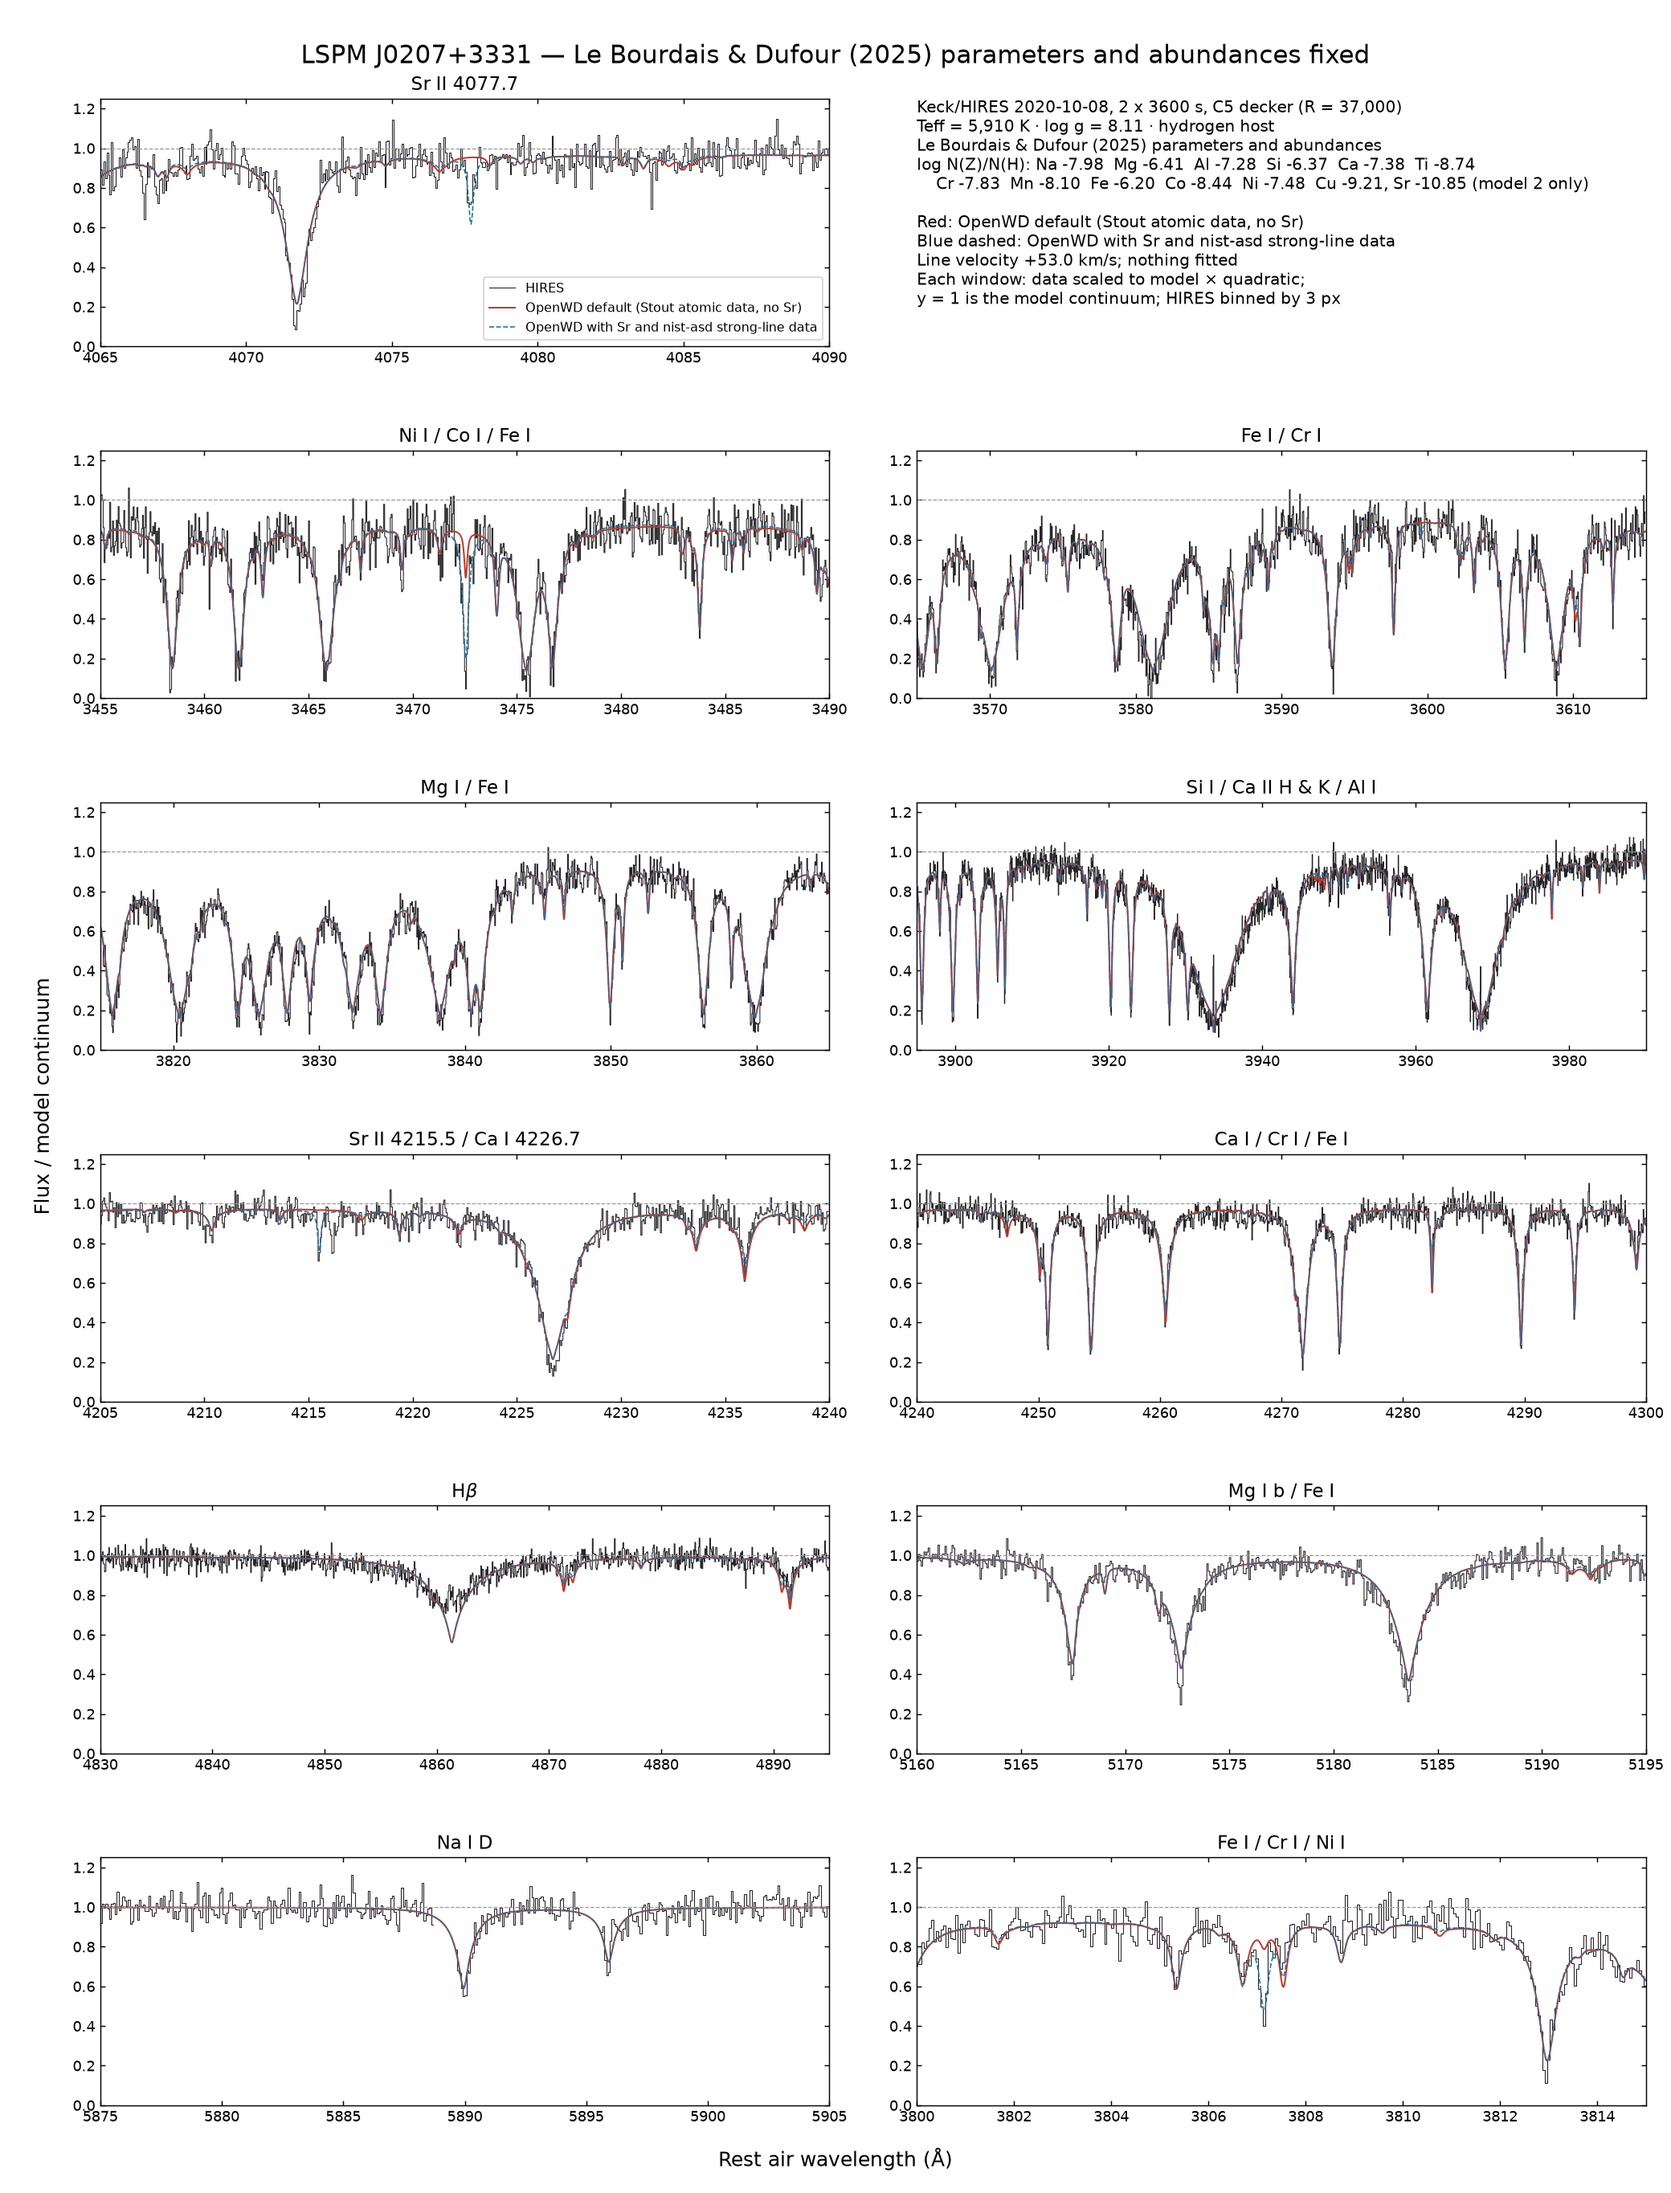
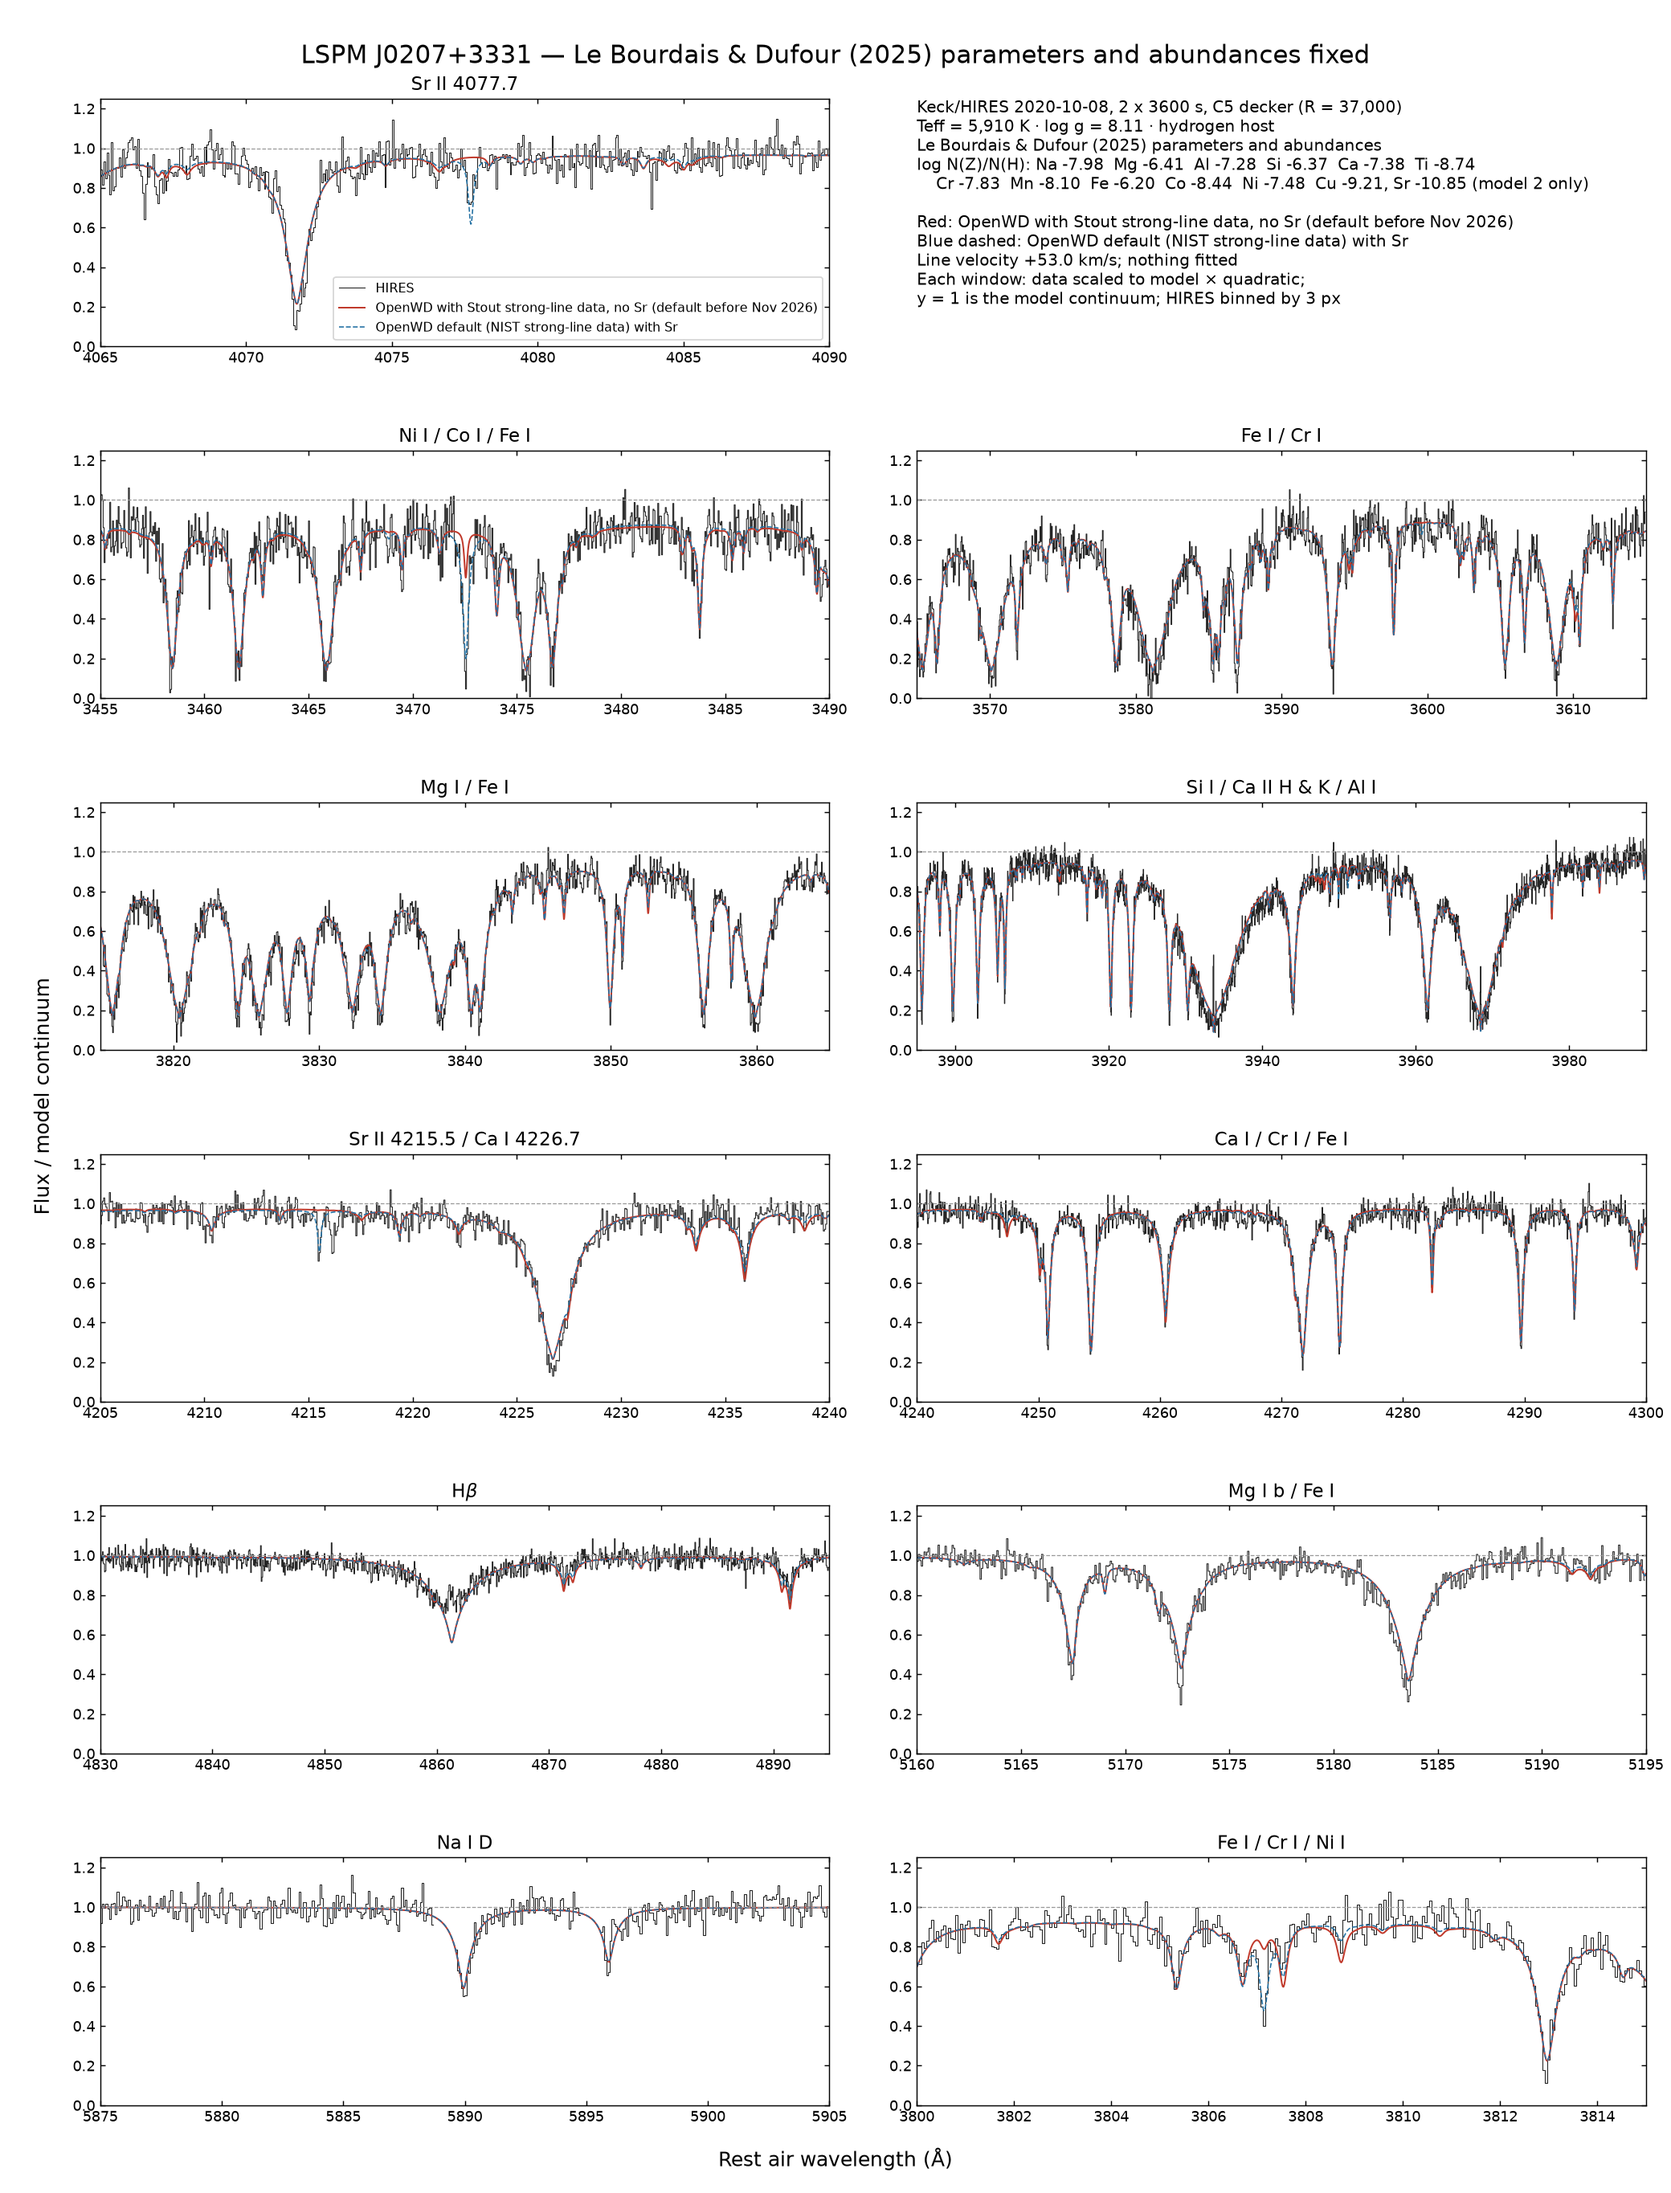
Document the NIST strong-line default and update the LSPM J0207+3331 comparison
- DZ guide, Sr/NIST note and DZ comparison page describe the new default
  (f >= 1e-4 for DZ and DAZ) and the recaptured fixed-spectrum controls.
- LSPM J0207+3331: figure and line scores recomputed with the current
  default; the summed line chi^2 is 62.6 (Stout, no Sr) -> 37.5.
- research/lspmj0207_hires: run_model.py follows the package default.

Changed region(s): [[0.2188, 0.1245, 0.4688, 0.1557], [0.6562, 0.0934, 0.8438, 0.1245], [0.6562, 0.4048, 0.6875, 0.4359]]

diff --git a/research/lspmj0207_hires/run_model.py b/research/lspmj0207_hires/run_model.py
@@ -30,7 +30,7 @@ parser.add_argument("--structure-lines", type=int, default=None,
 parser.add_argument("--formal-lines", type=int, default=None,
                     help="DAZConfig.formal_maximum_metal_lines (default 20,000)")
 parser.add_argument("--with-sr", action="store_true", help="include Sr at the paper abundance")
-parser.add_argument("--strong-line-data", default="stout", choices=["stout", "nist-asd"],
+parser.add_argument("--strong-line-data", default="nist-asd", choices=["stout", "nist-asd"],
                     help="DAZConfig.strong_line_atomic_data")
 args = parser.parse_args()
 

diff --git a/docs/development/strontium.md b/docs/development/strontium.md
@@ -7,10 +7,11 @@ heavily polluted cool DAZ LSPM J0207+3331:
 
 - strontium (Z = 38) for every LTE metal preset;
 - NIST ASD strong-line files for all neutral and singly ionized ions of the
-  independent-Kurucz screen, used by `strong_line_atomic_data="nist-asd"`.
+  independent-Kurucz screen, used by `strong_line_atomic_data="nist-asd"`,
+  which is the DZ and DAZ default since 2026-11-02.
 
-The defaults do not change. A model without Sr, with the default
-`strong_line_atomic_data="stout"`, reads the same atomic data as before.
+`strong_line_atomic_data="stout"` restores the earlier atomic data. The
+documentation figures were computed with it unless stated otherwise.
 
 ## Strontium
 
@@ -36,14 +37,29 @@ photoionization data are bundled.
 ## NIST strong-line files
 
 `strong_line_atomic_data="nist-asd"` replaces a Stout transition by the NIST
-ASD value when both level energies and statistical weights match, the NIST
-accuracy grade is C or better and f ≥ 0.01. This rule is unchanged. The
+ASD value when both level energies (within 0.15 cm⁻¹) and statistical weights
+match, the NIST accuracy grade is C or better and f ≥ 10⁻⁴, the floor of the
+synthesis line list. Unmatched NIST lines are not added. (Before 2026-11-02,
+DAZ models replaced only lines with f ≥ 0.01.) The
 bundled NIST files covered only some ions (mostly Ca, Mg, Na, O and Si in the
 optical). They now cover the neutral and singly ionized ions of all 15
 elements of the independent-Kurucz screen (C, N, O, Na, Mg, Al, Si, P, S, Ca,
 Ti, Cr, Mn, Fe, Ni), in the 115–300 nm and 300–900 nm windows of the existing
-queries. For the LSPM J0207+3331 mixture, the option now replaces 3359
-transitions in 20 ions.
+queries. For all 15 elements, the rule replaces 6649 transitions in 29 ions.
+The median change is 0.5%; 384 transitions change by more than a factor of
+two.
+
+### Default since 2026-11-02
+
+`DZConfig` and `DAZConfig` default to `"nist-asd"`, and the DZ and DAZ physics
+revisions include `nist-asd-strong-lines-2026-11-02`. The fixed-spectrum
+controls `dz-pg1225`, `dz-j0738`, `daz-g149_28` and `daz-galex1931` were
+recaptured on their frozen structures with
+`research/capture_nist_asd_default_controls.py`, after it checked that the
+earlier setting still reproduces the earlier controls. Integrated flux changes
+by at most 0.08% in any band. The largest single-pixel changes are −67% at
+O I 1303.0 Å (`dz-j0738`) and +29% at 1240 Å (`dz-pg1225`) in the UV, and
+2.6% in the optical DAZ controls.
 
 ## LSPM J0207+3331 test
 
@@ -57,27 +73,30 @@ At 27 lines, the score is the inverse-variance mean of (model − data) within
 ±0.08 Å of the line centre, in units of the continuum, after one linear
 scaling over ±3 Å:
 
-| Line | Default | + Sr, `nist-asd` |
+| Line | `"stout"`, no Sr | Current default + Sr |
 | --- | ---: | ---: |
 | Sr II 4077.7 | +7.0σ | −1.9σ |
-| Sr II 4215.5 | +9.4σ | +1.4σ |
+| Sr II 4215.5 | +9.4σ | +1.3σ |
 | Ni I 3472.5 (Stout f ten times too small) | +12.3σ | +2.6σ |
-| Ni I 3807.1 (Stout f eight times too small) | +12.6σ | +2.0σ |
+| Ni I 3807.1 (Stout f eight times too small) | +12.6σ | +1.8σ |
 | Fe I 3407.5 | +4.6σ | −0.5σ |
 | Fe I 3684.1 | +6.5σ | −0.4σ |
 | Fe I 4184.9 (Stout f 2.6 times too large) | −3.1σ | +0.8σ |
+| Fe I 3776.5 (Stout f too large) | −4.1σ | +0.9σ |
+| Fe I 4001.7 (Stout f too large) | −3.4σ | −0.3σ |
 | Six well-fitted control lines | unchanged | unchanged |
 
-The summed χ² per pixel over the 27 lines decreases from 62.6 to 38.8. Over
-eleven 35–95 Å windows, no window degrades by more than 0.001 in reduced χ².
+The summed χ² per pixel over the 27 lines decreases from 62.6 to 56.9 with
+Sr alone and to 37.5 with Sr and the NIST data (38.8 with the earlier DAZ
+replacement limit f ≥ 0.01, which left Fe I 3776.5 and 4001.7 Å at their
+Stout values). Over
+eleven 35–95 Å windows, the summed reduced χ² decreases from 10.50 to 9.88, and no window degrades by more than 0.002.
 
 ## Other DZ stars
 
-The defaults are unchanged, so the published figures are unchanged. To
-check `strong_line_atomic_data="nist-asd"` on other stars, every star below
-was also computed with it at the published parameters and abundances. Every
-model is a cold start at standard quality and passes its convergence
-certificate.
+Every star below was computed with both `"stout"` and `"nist-asd"` at the
+published parameters and abundances. Every model is a cold start at standard
+quality and passes its convergence certificate.
 
 Xu et al. (2019) HIRES stars (WD 1232+563, WD 1551+175, WD 2207+127): the
 mean χ² per pixel over the panels of the
@@ -103,8 +122,19 @@ change of the model flux, as an rms over 20 Å bins, is:
 | WD J1336−0337 | 0.2% | ≤ 0.1% | 67% (Ni I 3472.5 Å) |
 
 WD 2251−070 is the only star with a broad change: its near-UV flux is lower
-by 2.6% with the NIST data. WD J0255+0237 converged in 89 iterations with the
-option and in 19 without it.
+by 2.6% with the NIST data. Against the observed spectra, the score of the
+comparison figure (rms of log data/model over 2 Å bins) is:
+
+| Star | `"stout"` | `"nist-asd"` |
+| --- | ---: | ---: |
+| WD 2251−070 | 0.082 | 0.081 |
+| vMa2 | 0.068 | 0.068 |
+| SDSS J1227+6330 | 0.104 | 0.104 |
+| WD J0255+0237 | 0.029 | 0.029 |
+| WD J1336−0337 | 0.034 | 0.034 |
+
+WD J0255+0237 converged in 89 iterations with the NIST data and in 19
+without it.
 
 SDSS J0916+2540 converges slowly with either atomic data set. Its structure
 residual stays near 0.14 for about 30 iterations before it decreases. A run
@@ -119,5 +149,4 @@ Lines that this change does not address:
   gives no transition probability.
 - Fe I 3649.30, 4177.59 and 4216.18 Å are in the Stout atom with f < 10⁻⁴,
   below the synthesis floor.
-- Fe I 3556.68, 3776.45 and 4001.66 Å have NIST f < 0.01, below the
-  replacement threshold.
+- Fe I 3556.68 Å remains too strong (−2.0σ) with the NIST value.

diff --git a/docs/models/DZ.md b/docs/models/DZ.md
@@ -72,7 +72,7 @@ same from the command line (`--help` lists the flags).
 | `quality` | both | `"standard"` | `"quick"` (20 depths, interface test only), `"standard"` (40), `"production"` (80). |
 | `maximum_metal_charge` | both | 3 | Highest ion charge of each metal. |
 | `formal_maximum_metal_lines` | both | `None` (20,000; 1000 for `quick`) | Line budget of the spectrum. The structure uses the same list. |
-| `strong_line_atomic_data` | both | `"stout"` | `"nist-asd"` replaces matched transitions (NIST grade C or better, f ≥ 0.01) with NIST ASD values, for the neutral and singly ionized ions of C, N, O, Na, Mg, Al, Si, P, S, Ca, Ti, Cr, Mn, Fe and Ni at 1150–9000 Å. |
+| `strong_line_atomic_data` | both | `"nist-asd"` | Replaces matched transitions (NIST grade C or better, f ≥ 10⁻⁴) with NIST ASD values, for the neutral and singly ionized ions of C, N, O, Na, Mg, Al, Si, P, S, Ca, Ti, Cr, Mn, Fe and Ni at 1150–9000 Å. `"stout"` keeps the Stout values (the default before 2026-11-02). |
 | `ca_ii_resonance_source` | both | `"chianti-reduced"` | Ca II H and K source function. `"lte"` uses LTE. |
 | `lyman_profile_source` | both | DZ `"stark"`, DAZ `"allard"` | Lyman-line profiles. |
 | `metal_neutral_h_broadening` | DAZ | `"barklem"` | Neutral-H widths of metal lines. `"unsold"` uses Unsöld widths only. |
@@ -94,6 +94,9 @@ The remaining fields are numerical controls. Keep their defaults.
   (van Hoof et al. 2018) in Stout format. Selected Kurucz (2011) transitions
   are added; see the [atomic-data notes](../../src/wd_spectra/data/atomic/README.md)
   and the [Kurucz selection check](../validation/independent-kurucz.md).
+  Matched transitions of the neutral and singly ionized ions of the same
+  15 elements take evaluated NIST ASD oscillator strengths
+  (`strong_line_atomic_data`, see [Sr and NIST lines](../development/strontium.md)).
   Sr and Nb are not in Stout; their levels and transition probabilities
   come from NIST ASD (see [Sr lines](../development/strontium.md)).
   Ionization energies come from NIST ASD.

diff --git a/docs/validation/dz-observational-comparisons.md b/docs/validation/dz-observational-comparisons.md
@@ -5,7 +5,10 @@
 These comparisons use published effective temperatures (Teff), surface
 gravities and abundances. No parameter or abundance is fitted. The commands
 compute new models with the current defaults. Their spectra can differ
-from the figures.
+from the figures. Apart from LSPM J0207+3331, the figures were computed before
+the 2026-11-02 change of the strong-line default
+(`strong_line_atomic_data="stout"`); the [Sr and NIST note](../development/strontium.md)
+gives the size of that change for these stars.
 
 ## Paper comparisons
 
@@ -115,12 +118,13 @@ measured by Le Bourdais & Dufour.
 
 [![LSPM J0207+3331 HIRES data and OpenWD at the Le Bourdais & Dufour composition](../assets/lspmj0207-hires.png)](../assets/lspmj0207-hires.png)
 
-Red is the default model (no Sr). Blue dashed adds Sr (log N(Sr)/N(H) =
-−10.85) and uses `strong_line_atomic_data="nist-asd"`. In each window the data
+Red uses the Stout strong-line data (`strong_line_atomic_data="stout"`, the
+default before 2026-11-02) and no Sr. Blue dashed is the current default with
+Sr (log N(Sr)/N(H) = −10.85). In each window the data
 are scaled to the model times a quadratic. The windows test the line
 contrasts, not the depth of the pseudo-continuum. Both models reproduce most
 metal lines, including the strong Mg I, Ca I and Ca II wings. The second model
-adds the Sr II resonance lines and corrects Stout oscillator strengths that
+adds the Sr II resonance lines and the NIST values correct Stout oscillator strengths that
 are too small by factors of 4–11 (Ni I 3472.5 and 3807.1 Å, Fe I 3407.5 and
 3684.1 Å). The largest remaining differences:
 

diff --git a/research/lspmj0207_hires/README.md b/research/lspmj0207_hires/README.md
@@ -30,11 +30,11 @@ the two exposures, and merges all orders with inverse-variance weights on a
 ## Models and figure
 
 ```bash
-python run_model.py results/default                                  # Stout data, no Sr
-python run_model.py results/sr-nist --with-sr --strong-line-data nist-asd
+python run_model.py results/stout --strong-line-data stout     # Stout data, no Sr
+python run_model.py results/default-sr --with-sr               # current default, with Sr
 WINDOW_SET=docs python -I compare_hires.py lspmj0207_hires_merged.npz lspmj0207-hires.png \
-  "results/default=OpenWD default (Stout atomic data, no Sr)" \
-  "results/sr-nist=OpenWD with Sr and nist-asd strong-line data"
+  "results/stout=OpenWD with Stout strong-line data, no Sr (default before Nov 2026)" \
+  "results/default-sr=OpenWD default (NIST strong-line data) with Sr"
 ```
 
 Each model is a cold start at standard quality (about 40 min on 8 threads)
